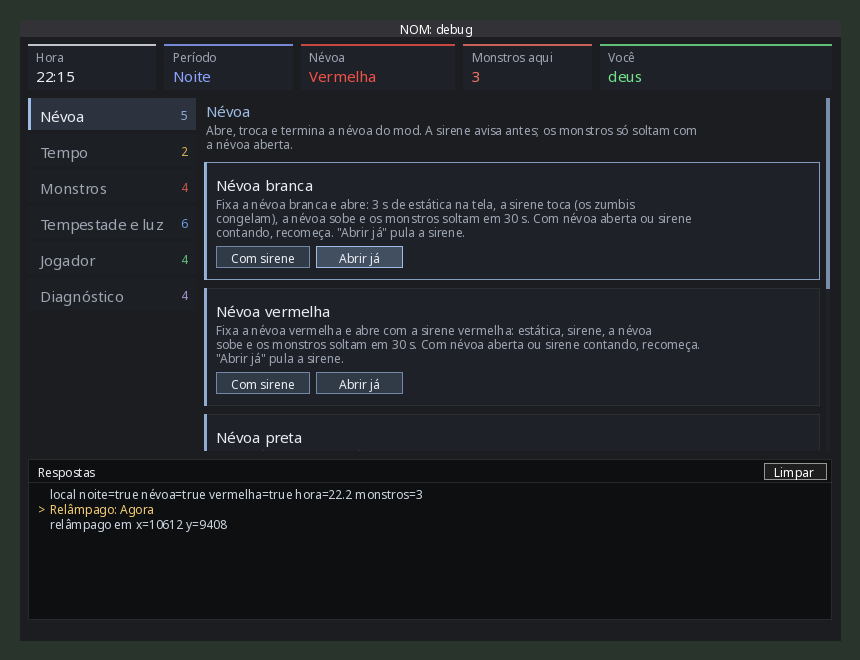
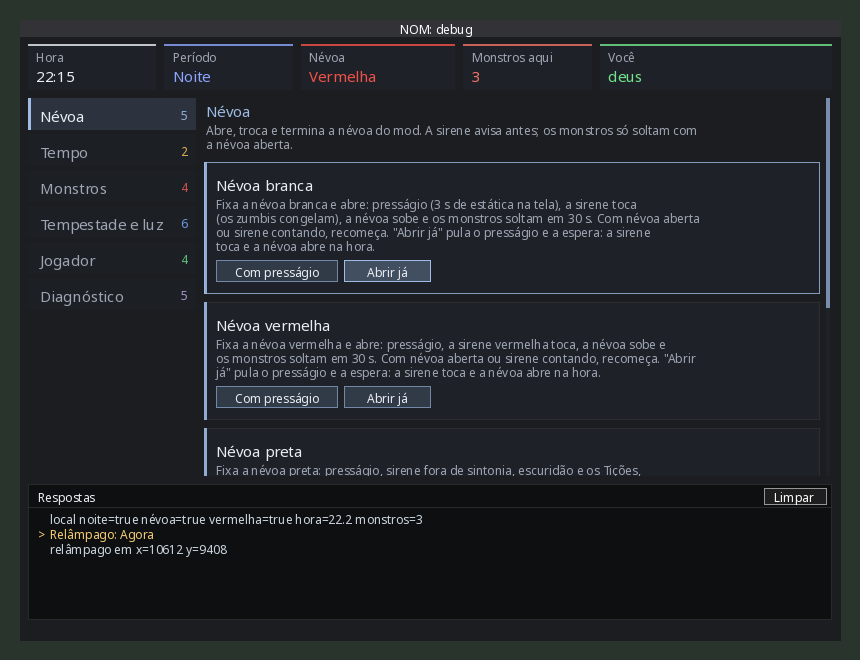
Sprint 0046: correções do review (leiaute com nome novo, mínimo pelas fontes, janela sobe na borda, textos da sirene, botão do NOM.help)

Changed region(s): [[0.0302, 0.303, 0.8163, 0.8485], [0.8767, 0.697, 0.9674, 0.7879], [0.9372, 0.4242, 0.9674, 0.4545]]

diff --git a/docs/sprints/sprint-0046-painel-debug/README.md b/docs/sprints/sprint-0046-painel-debug/README.md
@@ -10,8 +10,9 @@
 ## O que entrou
 
 - **Janela grande e redimensionável.**
-  - Abre com 820×620 e vai até o mínimo de 600×440 pelas alças do canto e da borda de baixo.
-  - O jogo guarda posição e tamanho. O leiaute salvo pelo painel antigo (440 de largura) sobe pro mínimo.
+  - Abre com 820×620 e vai até o mínimo de 600×440 pelas alças do canto e da borda de baixo. Com fonte grande nas opções do jogo, o mínimo cresce até a lateral inteira caber.
+  - O jogo guarda posição e tamanho com um nome novo (`NOM_DebugPanel_0046`): o leiaute do painel antigo (440 de largura) faria o novo abrir espremido.
+  - Perto da borda de baixo da tela, a janela sobe em vez de encolher abaixo do mínimo.
 - **Cabeçalho com o estado**, atualizado a cada segundo:
   - hora;
   - dia ou noite do mod;
@@ -24,13 +25,13 @@
   - Monstros;
   - Tempestade e luz;
   - Jogador;
-  - Diagnóstico.
+  - Diagnóstico (inclui a lista de comandos do `NOM.help()`, que agora também aparece em Respostas).
 - **Cada ação é um cartão** com título, uma descrição do que faz e os botões.
   - As ações irmãs ficam juntas:
     - a hora tem 00h, 06h, 12h, 18h e 22h;
     - "Criar zumbis" tem 1, 5 e 10;
     - "Transformar o mais perto" tem os quatro monstros e Desfazer;
-    - cada névoa tem "Com sirene" e "Abrir já".
+    - cada névoa tem "Com presságio" e "Abrir já" (que pula o presságio e a espera; a sirene toca igual).
   - Os cheats mostram LIGADO (verde) ou DESLIGADO.
   - A lista rola com a roda do mouse.
   - O botão sob o mouse acende e o clique toca o som de botão do jogo.
@@ -40,7 +41,7 @@
   - Tudo continua saindo no console como antes.
 - **`shared/NOM_DebugLog.lua`:** as mensagens `[NOM] debug ...` do console, do `NOM_Debug` e do servidor passam por ele. Ele imprime e guarda as últimas 60 linhas.
 
-Nenhum comando sumiu: todo `NOM.*` do `NOM.help()` continua com botão (o teste clica em todos).
+Nenhum comando sumiu: todo `NOM.*` do `NOM.help()` tem botão, agora inclusive o próprio `NOM.help()` (só o `NOM.panel()` fica de fora). O teste clica em todos.
 
 ![Prévia: seção Névoa em 820×620, com névoa vermelha à noite](previa-nevoa.png)
 
@@ -56,11 +57,13 @@ As prévias saem do desenho de verdade do painel (os mesmos `drawRect`/`drawText
   - tira só o prefixo `[NOM] debug `;
   - o eco não vai pro console.
 - `tests/test_debug.lua`: a resposta do servidor no solo, a do MP (`debugReply`) e o aviso do console caem no registro.
-- `tests/test_debug_panel.lua` (reescrito, 16 testes):
+- `tests/test_debug_panel.lua` (reescrito, 18 testes):
   - **Abrir e fechar:** tecla, fechar, sem jogador.
   - **Tamanho:**
     - abre grande e redimensionável, com mínimo;
-    - o leiaute antigo sobe pro mínimo;
+    - o leiaute do painel antigo não vale (o fake restaura pelo `resize` do vanilla, com mínimo e borda da tela);
+    - perto da borda de baixo, a janela sobe até caber;
+    - com fonte grande, a lateral inteira cabe no mínimo;
     - redimensionar refaz o leiaute;
     - no mínimo os botões não vazam.
   - **Conteúdo:**
@@ -76,6 +79,17 @@ As prévias saem do desenho de verdade do painel (os mesmos `drawRect`/`drawText
     - o cabeçalho atualiza a cada segundo (a preta ganha da vermelha);
     - as respostas mostram as mais novas e o Limpar apaga;
     - o hover acha o botão e todo stencil fecha.
+
+## Review
+
+Feito no fim da entrega, por um agente separado e lendo o diff. Nada crítico. Corrigido:
+
+- o leiaute do painel antigo prenderia o novo no mínimo (nome novo de leiaute);
+- "Abrir já" dizia que pulava a sirene: pula o presságio e a espera, a sirene toca ("Com sirene" virou "Com presságio");
+- com fonte grande, a lateral não cabia no mínimo (mínimo pelas fontes);
+- altura cortada pela borda da tela quebrava o leiaute (a janela sobe);
+- descrições do "Vermelha (alternar)", do "Desfazer" e da noite;
+- `NOM.help()` ganhou botão e sai em Respostas.
 
 ## Roteiro de teste no jogo
 

diff --git a/docs/architecture/pz-api-notes.md b/docs/architecture/pz-api-notes.md
@@ -2033,13 +2033,15 @@ jogo mostrou e por que o tiro não aparecia.
 |---|---|---|
 | `ISCollapsableWindow:new` liga `resizable`; o `createChildren` põe as duas alças (`ISResizeWidget`) pela altura e largura de agora | EXISTS | `client/ISUI/ISCollapsableWindow.lua:26-49, 395`. O painel nasce 820×620 antes do `addToUIManager` |
 | `ISResizeWidget:resize` não passa de `target.minimumWidth/minimumHeight` e chama `target:setWidth/setHeight` | EXISTS | `client/ISUI/ISResizeWidget.lua:9-34`. O painel refaz o leiaute no `update` quando `width/height` mudam (não depende do `onResize` do Java) |
-| `ISCollapsableWindow:RestoreLayout` só apaga largura e altura do leiaute salvo quando a janela não redimensiona; o `SaveLayout` grava sempre | EXISTS | `client/ISUI/ISCollapsableWindow.lua:336-354`. O leiaute do painel antigo (440 de largura) volta com o `RegisterWindow`: o painel sobe pro mínimo depois |
+| `ISCollapsableWindow:RestoreLayout` só apaga largura e altura do leiaute salvo quando a janela não redimensiona; o `SaveLayout` grava sempre | EXISTS | `client/ISUI/ISCollapsableWindow.lua:336-354` |
+| `ISLayoutManager.DefaultRestoreWindow` devolve o tamanho pelo `ISResizeWidget:resize` da janela (prende no mínimo e corta a altura na borda de baixo da tela) | EXISTS | `client/ISUI/ISLayoutManager.lua:26-41`; `ISResizeWidget.lua:13-27`. O leiaute do painel da 0020 (440 de largura, nome `NOM_DebugPanel`) abriria o novo espremido no mínimo: o novo usa o nome `NOM_DebugPanel_0046`. Altura cortada pela tela: o `update` sobe a janela até caber o mínimo |
 | `ISUIElement:instantiate` cria o objeto Java e chama `createChildren`; `addToUIManager` só instancia na primeira vez | EXISTS | `client/ISUI/ISUIElement.lua:993-1007, 1365-1371` |
 | `ISPanel:new` (`background`, `backgroundColor`, `borderColor`), `noBackground` | EXISTS | `client/ISUI/ISPanel.lua:9-12, 96-115` |
 | Desenho: `drawRect(x, y, w, h, a, r, g, b)`, `drawRectBorder` (mesma ordem), `drawText/drawTextRight/drawTextCentre(str, x, y, r, g, b, a, font)` | EXISTS | `client/ISUI/ISUIElement.lua:1191, 1219, 1280, 1293, 1306` |
 | Recorte: `setStencilRect(0, 0, w, h)` no `prerender` e `clearStencilRect` no `render` de um painel filho que rola | EXISTS | `client/ISUI/AdminPanel/ISStatisticsUI.lua:14-31`; `client/ISUI/ISUIElement.lua:459-475` |
 | Mouse local: `onMouseDown(x, y)`, `onMouseWheel(del)` (devolve `true` = consumido); `getMouseX/Y` descontam o `xScroll/yScroll` do Java | EXISTS | `client/ISUI/ISScrollingListBox.lua:347, 577`; `ISStatisticsUI.lua:19-25`; `ISUIElement.lua:339-346`. A lista rola em Lua (`yScroll` do Java fica 0) |
 | `getTextManager():MeasureStringX(fonte, texto)`, `getFontHeight(fonte)`; `UIFont.Small`, `UIFont.Medium` | EXISTS | `client/ISUI/ISButton.lua:233`; `client/ISUI/ISContextMenu.lua:1109` |
+| `getTextManager():getFontHeight` segue a opção de tamanho de fonte do jogo | EXISTS | `ISCollapsableWindow:titleBarHeight` usa a altura da fonte (`:298-300`). O mínimo da altura do painel sai das fontes (a lateral inteira mais 3 linhas de respostas) |
 | Som do clique de botão: `getSoundManager():playUISound("UIActivateButton")` | EXISTS | `client/ISUI/ISButton.lua:46, 521` |
 | O clique numa área vazia da janela (cabeçalho) começa a arrastar | EXISTS | `ISCollapsableWindow:onMouseDown` (`:270-280`): os painéis filhos devolvem `true` pra não arrastar a janela |
 | As alças, o recorte e a roda do mouse se comportam no jogo como no vanilla | UNKNOWN | testar no jogo, item 28 |
